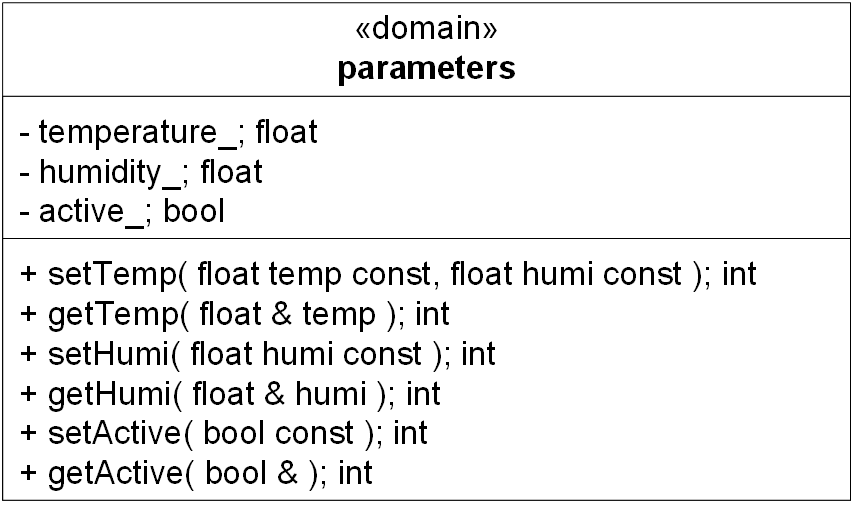
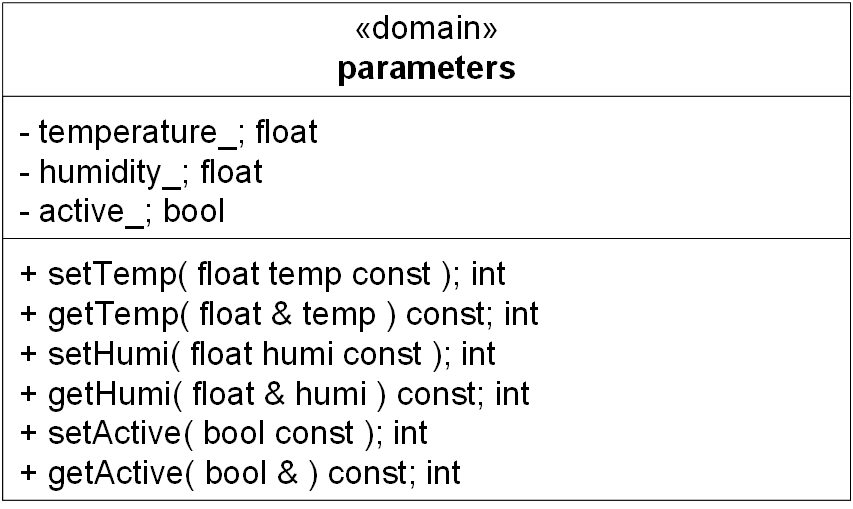
SW PSoC klassebeskrivelser
Beskrivelser af alle PSoC klasser mv.

diff --git a/Projektdokumentation/filer/design/sw_psoc_boundary.tex b/Projektdokumentation/filer/design/sw_psoc_boundary.tex
@@ -1,0 +1,103 @@
+%% SW design: PSoC Boundary
+
+\begin{figure}[htbp] \centering
+{\includegraphics[scale=1.3]{filer/design/Klassediagrammer/sw_psoc_sensorPackage}}
+\caption{Klasse sensorPackage}
+\label{fig:sw_psoc_class_sensorPackage}
+\end{figure} 
+
+{\centering
+\textbf{sensorPackage}\par
+}
+\textbf{Ansvar:} Holder styr på tilkoblede sensorer. \
+
+\verb+sensorPackage( ) +\\
+\textbf{Parametre:} Ingen \\
+\textbf{Returværdi:} Ingen \\
+\textbf{Beskrivelse:} Skal oprette sensor- og sprinklerobjekter og udføre den nødvendige opsætning af disse. \\
+
+\verb+int getData( float & temp, float & humi )+ \\
+\textbf{Parametre:} Reference til at gemme aflæste temperatur og fugtighed i. \\
+\textbf{Returværdi:} 0 ved succes ellers negativ i overenstemmelse med fejl-listen. \\
+\textbf{Beskrivelse:} Aflæse data fra temperatur- og fugtighedssensor og returner disse i de modtagende referencer. \\
+
+\verb+int water( bool const )+ \\
+\textbf{Parametre:} True = tænd sprinkler, False = sluk sprinkler \\
+\textbf{Returværdi:} 0 ved succes ellers negativ i overenstemmelse med fejl-listen. \\
+\textbf{Beskrivelse:} Tænd eller sluk tilkoblede sprinkler ud fra modtagende parameter. \\
+
+
+\begin{figure}[htbp] \centering
+{\includegraphics[scale=1.3]{filer/design/Klassediagrammer/sw_psoc_tempSensor}}
+\caption{Klasse tempSensor}
+\label{fig:sw_psoc_class_tempSensor}
+\end{figure} 
+
+{\centering
+\textbf{tempSensor}\par
+}
+\textbf{Ansvar:} Håndterer kommunikation med temperatursensor. \
+
+\verb+tempSensor( )+ \\
+\textbf{Parametre:} Ingen. \\
+\textbf{Returværdi:} Ingen. \\
+\textbf{Beskrivelse:} Initialisere nødvendige indstillinger for at kunne kommunikerer med sensoren. \\
+
+\verb+int getValue( float & ) const+ \\
+\textbf{Parametre:} Reference til at gemme temperatur i. \\
+\textbf{Returværdi:} 0 ved succes ellers negativ i overenstemmelse med fejl-listen. \\
+\textbf{Beskrivelse:} Returnerer aflæst temperatur i reference. \\
+
+
+\begin{figure}[htbp] \centering
+{\includegraphics[scale=1.3]{filer/design/Klassediagrammer/sw_psoc_humiSensor}}
+\caption{Klasse humiSensor}
+\label{fig:sw_psoc_class_humiSensor}
+\end{figure} 
+
+{\centering
+\textbf{humiSensor}\par
+}
+\textbf{Ansvar:} Håndterer kommunikation med fugtighedssensor. \
+
+\verb+humiSensor( )+ \\
+\textbf{Parametre:} Ingen. \\
+\textbf{Returværdi:} Ingen. \\
+\textbf{Beskrivelse:} Initialisere nødvendige indstillinger for at kunne kommunikerer med sensoren. \\
+
+\verb+int getValue( float & ) const+ \\
+\textbf{Parametre:} Reference til at gemme fugtighed i. \\
+\textbf{Returværdi:} 0 ved succes ellers negativ i overenstemmelse med fejl-listen. \\
+\textbf{Beskrivelse:} Returnerer aflæst fugtighed i reference. \\
+
+\begin{figure}[htbp] \centering
+{\includegraphics[scale=1.3]{filer/design/Klassediagrammer/sw_psoc_sprinkler}}
+\caption{Klasse sprinkler}
+\label{fig:sw_psoc_class_sprinkler}
+\end{figure} 
+
+{\centering
+\textbf{sprinkler}\par
+}
+\textbf{Ansvar:} At aktiverer og deaktiverer tilkoblede sprinkler \
+
+\verb+sprinkler( )+ \\
+\textbf{Parametre:} Ingen. \\
+\textbf{Returværdi:} Ingen. \\
+\textbf{Beskrivelse:} Skal initialisere nødvendige dele for at kunne bruge GPIO.\\
+
+\verb+int setValue( bool const )+ \\
+\textbf{Parametre:} True = tænd sprinkler, False = sluk sprinkler. \\
+\textbf{Returværdi:} 0 ved succes ellers negativ i overenstemmelse med fejl-listen. \\
+\textbf{Beskrivelse:} Skal aktiverer eller deaktiverer sprinkler ved hjælp af GPIO.\\
+
+\begin{figure}[htbp] \centering
+{\includegraphics[scale=1.3]{filer/design/Klassediagrammer/sw_psoc_SPIhandler}}
+\caption{Klasse SPIHandler}
+\label{fig:sw_psoc_class_SPIhandler}
+\end{figure} 
+
+{\centering
+\textbf{SPIHandler}\par
+}
+\textbf{Ansvar:} Afkode modtagne SPI beskeder og kalde nødvendige controllerer. \

diff --git a/Projektdokumentation/filer/design/sw_psoc_domain.tex b/Projektdokumentation/filer/design/sw_psoc_domain.tex
@@ -1,0 +1,69 @@
+%% SW design: PSoC Domain
+
+\begin{figure}[htbp] \centering
+{\includegraphics[scale=1.3]{filer/design/Klassediagrammer/sw_psoc_parameters}}
+\caption{Klasse parameters}
+\label{fig:sw_psoc_class_parameters}
+\end{figure} 
+
+{\centering
+\textbf{parameters}\par
+}
+\textbf{Ansvar:} Gemme information omkring det autonome vandingssystem. \
+
+\verb+int setTemp( float temp const ) +\\
+\textbf{Parametre:} temperatur. \\
+\textbf{Returværdi:} 0 ved succes ellers negativ i overenstemmelse med fejl-listen. \\
+\textbf{Beskrivelse:} Gemmer modtagne temperatur i medlemsdata \verb+temperature_+. \\
+
+\verb+int getTemp( float & temp ) const+ \\
+\textbf{Parametre:} Reference til at gemme temperatur i. \\
+\textbf{Returværdi:} 0 ved succes ellers negativ i overenstemmelse med fejl-listen. \\
+\textbf{Beskrivelse:} Returnerer medlem \verb+temperature_+ i reference. \\
+
+\verb+int setHumi( float humi const )+ \\
+\textbf{Parametre:} humidity. \\
+\textbf{Returværdi:} 0 ved succes ellers negativ i overenstemmelse med fejl-listen. \\
+\textbf{Beskrivelse:} Gemmer modtagne humidity i medlemsdata \verb+humidity_+. \\
+
+\verb+int getHumi( float & humi ) const+ \\
+\textbf{Parametre:} Reference til at gemme humidity i. \\
+\textbf{Returværdi:} 0 ved succes ellers negativ i overenstemmelse med fejl-listen. \\
+\textbf{Beskrivelse:} Returnerer medlem \verb+humidity_+ i reference. \\
+
+\verb+int setActive( bool const )+ \\
+\textbf{Parametre:} True = aktiv, False = inaktiv. \\
+\textbf{Returværdi:} 0 ved succes ellers negativ i overenstemmelse med fejl-listen. \\
+\textbf{Beskrivelse:} Gemmer modtagne bool i medlemsdata \verb+active_+. \\
+
+\verb+int getActive( bool & ) const+ \\
+\textbf{Parametre:} Reference til at gemme bool i. \\
+\textbf{Returværdi:} 0 ved succes ellers negativ i overenstemmelse med fejl-listen. \\
+\textbf{Beskrivelse:} Returnerer medlem \verb+active_+ i reference. \\
+
+
+\begin{figure}[htbp] \centering
+{\includegraphics[scale=1.3]{filer/design/Klassediagrammer/sw_psoc_buffer}}
+\caption{Klasse buffer}
+\label{fig:sw_psoc_class_buffer}
+\end{figure} 
+
+{\centering
+\textbf{buffer}\par
+}
+\textbf{Ansvar:} Holde data fra sensorerne ind til de udlæses af Master \
+
+\verb+buffer( )+ \\
+\textbf{Parametre:} Ingen. \\
+\textbf{Returværdi:} Ingen. \\
+\textbf{Beskrivelse:} Skal initialisere medlem \verb+buffer_+\\
+
+\verb+int saveData( vector<string> & )+ \\
+\textbf{Parametre:} Reference til vector med data. \\
+\textbf{Returværdi:} 0 ved succes ellers negativ i overenstemmelse med fejl-listen. \\
+\textbf{Beskrivelse:} Skal gemme modtaget data i \verb+buffer_+-medlemmet.\\
+
+\verb+int getData( vector<string> & )+ \\
+\textbf{Parametre:} Reference til vector til data. \\
+\textbf{Returværdi:} 0 ved succes ellers negativ i overenstemmelse med fejl-listen. \\
+\textbf{Beskrivelse:} Skal returnerer data fra \verb+buffer_+ i reference og nulstille bufferen.\\

diff --git a/Projektdokumentation/filer/design/sw_psoc_controller.tex b/Projektdokumentation/filer/design/sw_psoc_controller.tex
@@ -1,0 +1,70 @@
+%% SW design: PSoC Controllers
+
+\begin{figure}[htbp] \centering
+{\includegraphics[scale=1.3]{filer/design/Klassediagrammer/sw_psoc_addRemove}}
+\caption{Klasse addRemove}
+\label{fig:sw_psoc_class_addremove}
+\end{figure} 
+
+{\centering
+\textbf{addRemove}\par
+}
+\textbf{Ansvar:} Kontrollerer hændelsesforløbet ifm. usecase 1. \
+
+\verb+int verify( ) const +\\
+\textbf{Parametre:} Ingen \\
+\textbf{Returværdi:} 0 ved succes ellers negativ i overenstemmelse med fejl-listen. \\
+\textbf{Beskrivelse:} Returnerer kun 0. Bruges til at verificerer kommunikation mellem Master og Enhed.\\
+
+\begin{figure}[htbp] \centering
+{\includegraphics[scale=1.3]{filer/design/Klassediagrammer/sw_psoc_config}}
+\caption{Klasse config}
+\label{fig:sw_psoc_class_config}
+\end{figure} 
+
+{\centering
+\textbf{config}\par
+}
+\textbf{Ansvar:} Kontrollerer hændelsesforløbet ifm. usecase 2. \
+
+\verb+int config( float & temp const, float & humidity const )+ \\
+\textbf{Parametre:} To referencer til hhv. temperatur og fugtighedsgrænser \\
+\textbf{Returværdi:} 0 ved succes ellers negativ i overenstemmelse med fejl-listen. \\
+\textbf{Beskrivelse:} Skal gemme parametre i et objekt af typen parameters.\\
+
+\begin{figure}[htbp] \centering
+{\includegraphics[scale=1.3]{filer/design/Klassediagrammer/sw_psoc_onOff}}
+\caption{Klasse onOff}
+\label{fig:sw_psoc_class_onOff}
+\end{figure} 
+
+{\centering
+\textbf{onOff}\par
+}
+\textbf{Ansvar:} Kontrollerer hændelsesforløbet ifm. usecase 3. \
+
+\verb+int turnOnOff( bool onOff const )+ \\
+\textbf{Parametre:} En \verb+bool+ som angiver on = true, off = false \\
+\textbf{Returværdi:} 0 ved succes ellers negativ i overenstemmelse med fejl-listen. \\
+\textbf{Beskrivelse:} Skal sætte flaget \verb+active_+ i \verb+parameters+-objektet ud fra den modtagende parameter.\\
+
+\begin{figure}[htbp] \centering
+{\includegraphics[scale=1.3]{filer/design/Klassediagrammer/sw_psoc_loadData}}
+\caption{Klasse loadData}
+\label{fig:sw_psoc_class_loadData}
+\end{figure} 
+
+{\centering
+\textbf{loadData}\par
+}
+\textbf{Ansvar:} Kontrollerer hændelsesforløbet ifm. usecase 4. \
+
+\verb+int getBuffer( vector<string> & buf )+ \\
+\textbf{Parametre:} En reference til en skrivbar buffer \\
+\textbf{Returværdi:} 0 ved succes ellers negativ i overenstemmelse med fejl-listen. \\
+\textbf{Beskrivelse:} Skal hente data fra \verb+buffer+-objektet og gemme det i parametren buf.\\
+
+\verb+int movementDetekt( )+ \\
+\textbf{Parametre:} Ingen. \\
+\textbf{Returværdi:} 0 ved succes ellers negativ i overenstemmelse med fejl-listen. \\
+\textbf{Beskrivelse:} Skal deaktiverer vanding ved at sætte \verb+active_+-flaget i \verb+parameters+-objektet til 0. Skal også starte en timer som ved udløbet skal aktiverer vandingen igen efter 30 minutter.\\

diff --git a/Projektdokumentation/filer/SWdesign.tex b/Projektdokumentation/filer/SWdesign.tex
@@ -17,4 +17,8 @@ Her følger klassebeskrivelser for de udledte klasser fra applikationsmodellerne
 \input{filer/design/sw_domain}
 
 \subsection{Enhed}
-%\input{filer/design/sw_psoc_controllers}
+\input{filer/design/sw_psoc_controller}
+
+\input{filer/design/sw_psoc_domain}
+
+\input{filer/design/sw_psoc_boundary}
